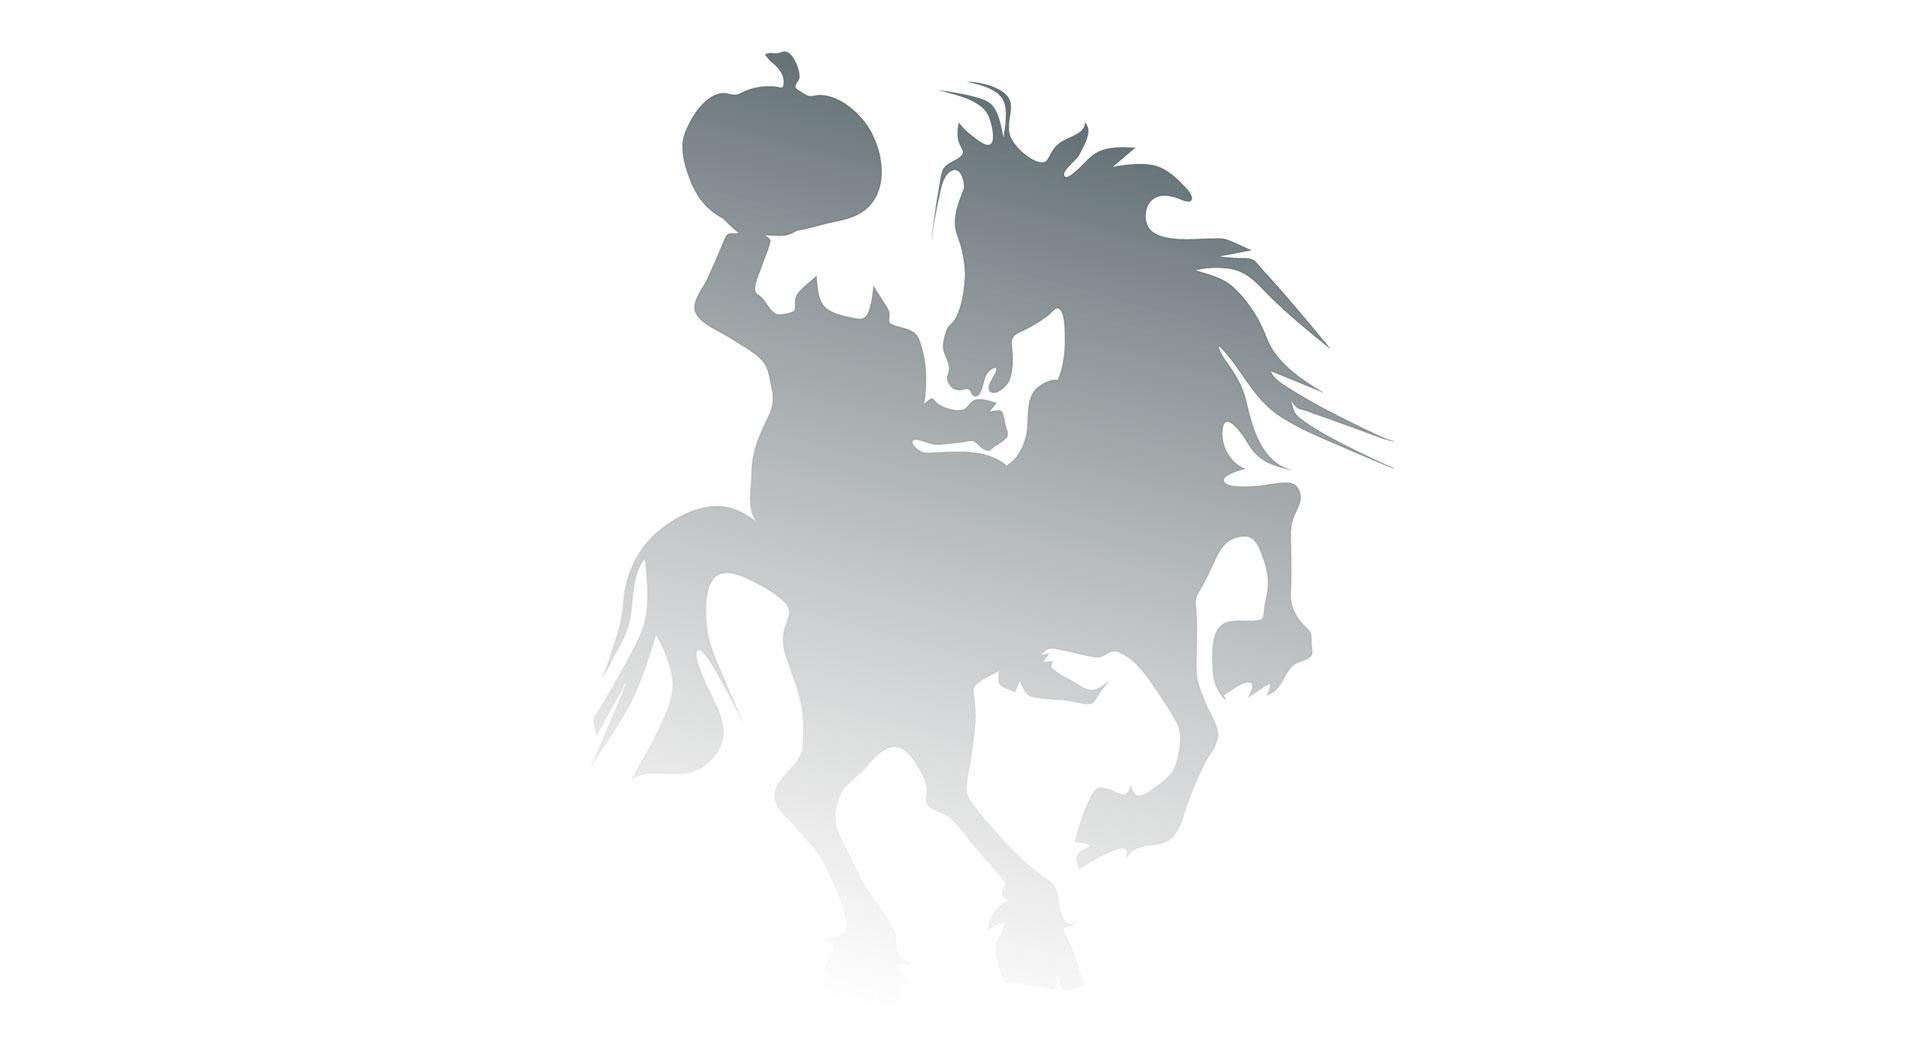
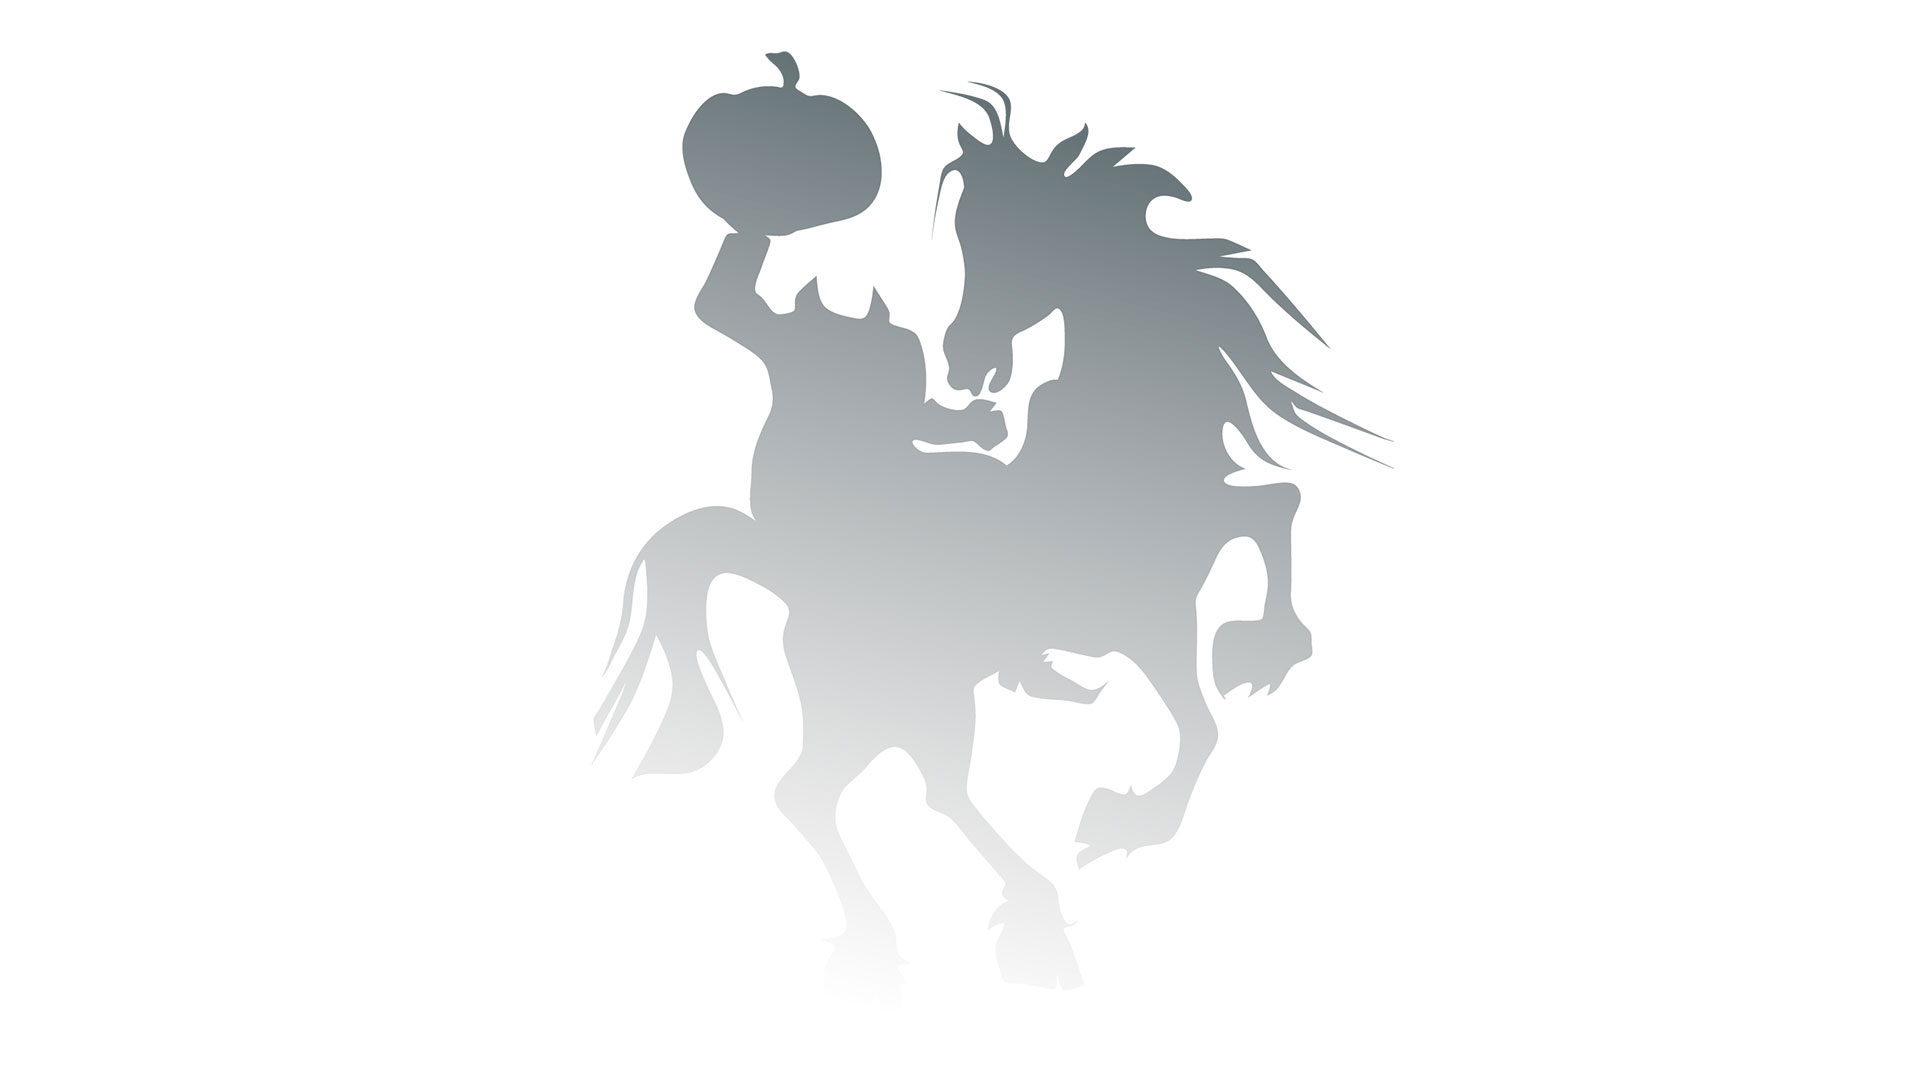
horseman overlay

diff --git a/storybook-holiday-video/index.html b/storybook-holiday-video/index.html
@@ -64,11 +64,11 @@ e.async=true;var t=document.getElementsByTagName("script")[0];t.parentNode.inser
     background: linear-gradient(to bottom, #ffffff 0%, #ffffff 25%, #efeeed 65%, #efeeed 100%);
 }
 .sleepy-wrapper {
-    background: transparent url("../storybook-holiday - Copy/sleepy-hollow-background.jpg") bottom center no-repeat;
     max-width: 1920px;
-    min-height: 1050px;
+    min-height: 1080px;
     margin: 0 auto;
-    animation: lighting 3s 1s linear 2;
+    animation: lighting .6s 2s linear 6;
+    opacity: 1;
 }
 .item-wrapper {
     display: flex;
@@ -129,35 +129,29 @@ a.btn.btn-default {
 }
 @keyframes lighting {
 0% {
-background: transparent url("sleepy-hollow-background.jpg") bottom center no-repeat;
 opacity: 0;
 }
 10% {
-background: transparent url("sleepy-hollow-background.jpg") bottom center no-repeat;
 opacity: 0;
 }
-13% {
+11% {
 background: transparent url("horseman.jpg") bottom center no-repeat;
 opacity: 1;
 }
 14% {
-background: transparent url("sleepy-hollow-background.jpg") bottom center no-repeat;
 opacity: 0;
 }
 20% {
-background: transparent url("sleepy-hollow-background.jpg") bottom center no-repeat;
 opacity: 0;
 }
-23% {
+21% {
 background: transparent url("horseman.jpg") bottom center no-repeat;
 opacity: 1;
 }
 24% {
-background: transparent url("sleepy-hollow-background.jpg") bottom center no-repeat;
 opacity: 0;
 }
 104% {
-background: transparent url("sleepy-hollow-background.jpg") bottom center no-repeat;
 opacity: 0;
 }
 }
@@ -183,7 +177,6 @@ h4.heading-one {
     position: relative;
     overflow: hidden;
     background: #fff;
-    padding: 0 15px;
     max-width: 1920px;
     margin: 0 auto;
     height: 1080px;
@@ -205,6 +198,24 @@ video#bgvid {
 }
 video {
     display: block;
+}
+.horseman {
+    background: transparent url("horseman.jpg") bottom center no-repeat;
+    animation: scale-fade-out 5s cubic-bezier(0.34, 1.56, 0.64, 1) 1;
+}
+@keyframes scale-fade-out {
+0% {
+transform: scale(20);
+opacity: 0;
+}
+30%, 70% {
+transform: scale(1);
+opacity: 1;
+}
+100% {
+transform: scale(0);
+opacity: 0;
+}
 }
 </style>
 <!-- InstanceEndEditable -->
@@ -381,23 +392,12 @@ $.get("https://s3.amazonaws.com/website.alert/alert.txt")
   <!-- InstanceBeginEditable name="Content" -->
   <div class="row background-row">
     <div class="contain-header">
-      <div class="row">
-        <video autoplay loop muted playsinline poster="sky-with-doodles.jpg" id="bgvid">
-          <source src="sleepy-hollow-video.mp4" type="video/mp4" />
-          Sorry, your browser does not support background videos.
-          <source src="sleepy-hollow-video.webm" type="video/webm" />
-          Sorry, your browser does not support background videos.</video>
-        <div class="info-wrapper">
-          <div class="details-wrapper">
-            <h1 class="info"><i>The Sky's the Limit!</i></h1>
-            <div class="info-one">
-              <div>Exciting <a href="featured-events/#author-events">author&nbsp;events</a> with award-winning, bestselling writers.</div>
-              <div>Summer reading fun for all ages! <a class="text-nowrap" href="summer-reading/">Pre-register&nbsp;now</a>.</div>
-              <div>Mental health resources and inspiration for <a href="https://dcl.bibliocommons.com/list/share/692278051_dcladults/2290489219">Taking&nbsp;Care</a>.</div>
-            </div>
-          </div>
-        </div>
-      </div>
+      <video autoplay loop muted playsinline poster="sky-with-doodles.jpg" id="bgvid">
+        <source src="sleepy-hollow-video.mp4" type="video/mp4" />
+        Sorry, your browser does not support background videos.
+        <source src="sleepy-hollow-video.webm" type="video/webm" />
+        Sorry, your browser does not support background videos.</video>
+      <div class="sleepy-wrapper"> </div>
     </div>
   </div>
   <!-- InstanceEndEditable --> </div>
